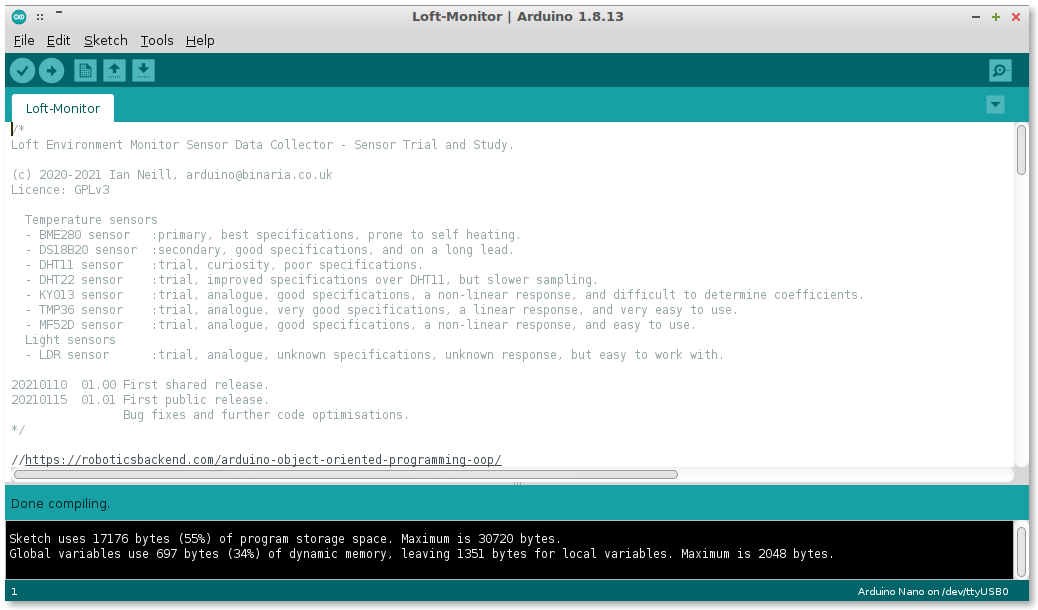
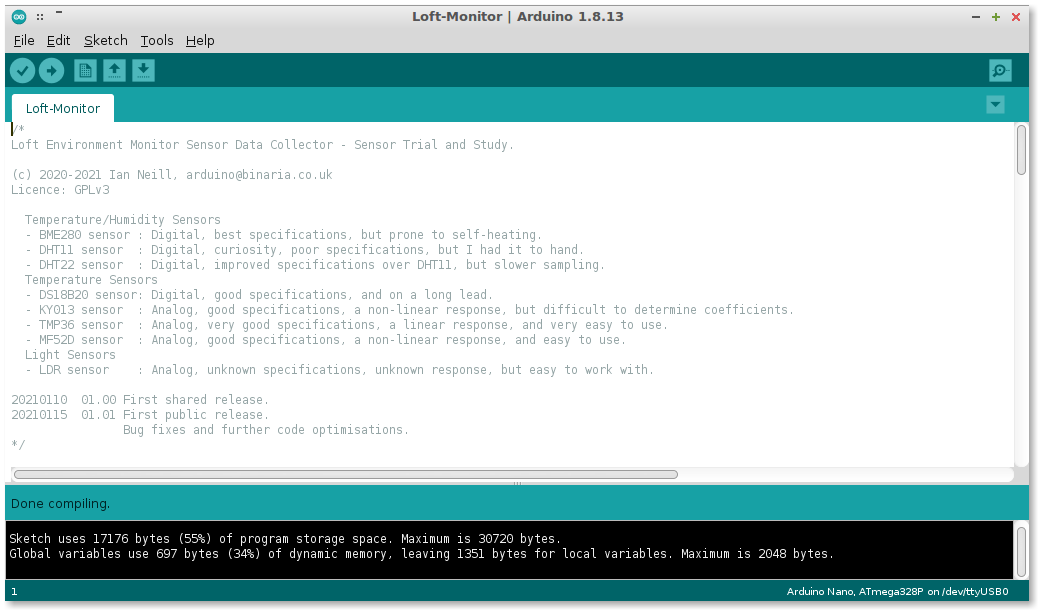
Sensor circuit diagrams added.

Changed region(s): [[0.0, 0.3426, 0.8324, 0.7164], [0.0, 0.7475, 0.4933, 0.7787], [0.7707, 0.9656, 0.894, 0.9967]]

diff --git a/README.md b/README.md
@@ -3,13 +3,13 @@
 
 So, I have a Server, several NAS's, 2x UPS's and a lot of network kit in my loft. I also have a ton of other real junk, but that is not so interesting. Anyway, in the Winter, my loft (or my mini datacentre, as my friends call it) really does not have a temperature problem, but in the Summer it can get really hot - hot enough for me to power down all my kit just as a precaution.
 
-Then, recently I discovered (many thanks Adrian) the Arduino (what an absolute marvel), and eventually I have gained enough knowledge and experience to be able to use an Arduino to monitor the environment in my loft. However, what environment sensor would be the best, what environment sensors are there, and how do they compare?
+Then, last year, I discovered (many thanks Adrian) the Arduino (what an absolute marvel), and eventually I gained enough knowledge and experience to be able to build, programm and use an Arduino to monitor the environment in my loft. However, what environment sensor is the best, what environment sensors are there, and how do they compare?
 
-This project is built on an Arduino Nano (cheap, breadboard friendly, virtually disposable) and has a total of 7x temperature sensors, 3x humdity sensors, and 1x light sensor (because I thought it might be useful too). It also has 5x LEDs that give a rough indication of what the temperature is.
+This project is built using an Arduino Nano (cheap, breadboard friendly, virtually disposable) and has a total of 7x temperature sensors, 3x humdity sensors, and 1x light sensor (because I thought it might be useful too). It also has 5x LEDs that give a rough indication of what the temperature is.
 
 **Temperature/Humidity Sensors**
-- BME280 sensor: Digital, best specifications, prone to self-heating.
-- DHT11 sensor: Digital, curiosity, poor specifications.
+- BME280 sensor: Digital, best specifications, but prone to self-heating.
+- DHT11 sensor: Digital, curiosity, poor specifications, but I had it to hand.
 - DHT22 sensor: Digital, improved specifications over DHT11, but slower sampling.
 
 **Temperature Sensors**
@@ -21,7 +21,7 @@ This project is built on an Arduino Nano (cheap, breadboard friendly, virtually 
 **Light Sensors**
 - LDR sensor: Analog, unknown specifications, unknown response, but easy to work with.
 
-The various data readings are output as CSV at a rate of 4x readings per minute, but this, and almost everything, is configurable. This data is captured via USB by a handy Serial Console program called [CoolTerm](http://freeware.the-meiers.org/), and it is [configured](ComPort4.stc) to timestamp each line as it is received and logged to disc. I have just left this running...
+The various data readings are output as text or CSV at a rate of 4x readings per minute, but this, and almost everything, is configurable. I am capturing the data as CSV via USB, with a handy Serial Console program called [CoolTerm](http://freeware.the-meiers.org/). It is [configured](ComPort4.stc) to timestamp each line as it is received and logged to disc. I have just left this running...
 
 In realtime, I can look at the log to get the information, or just look at the LEDs to get a rough idea of what the temperature in my loft/datacentre is.
 
@@ -36,26 +36,35 @@ In realtime, I can look at the log to get the information, or just look at the L
 
 In time, I will analyse the capured data (using LibreCalc), looking at the cycles and trends, and comparing and contrasting the readings from the many sensors. I expect that I will settle on just 1 or 2 sensors and then harden the build. Eventually I will use some of the spare digital outputs to control fans and things like that.
 
-An example "blob" of captured data can be studied [here](LoftMon20210111-1.csv).
+An example "blob" of captured CSV data can be studied [here](LoftMon20210111-1.csv).
 
 I should also be able to automate some basic alerting. For example, a simple python script running on the server could easily read the log, and send me an email if it spots whatever I want it to spot.
 
 ![](My-Loft-Environment-Monitor.png)
 
 ## Installation
+0. Construct the circuits for some/all of the sensors and the LEDs.
 1. Create an Arduino sketch folder called ``Loft-Monitor``.
 2. Copy ``Loft-Monitor.ino`` into the sketch folder just created.
 3. Fire up the Arduino IDE, and install the pre-requesite libraries (as necessary).
 4. Open the ``Loft-Monitor.ino`` sketch and enable/disable the sensors and features you want.
 5. Compile and download the code to your Arduino Nano.
 6. Capture the environment data with a serial comms app you like. I like and use [CoolTerm](http://freeware.the-meiers.org/).
+7. Leave it running, collecting data for as long as you need.
 
 ## Usage Example
 ![](Loft-Monitor-v101-CompileDownload.png)
 
+![](SerialMon-TestDataDisplay.png)
+
 ![](CoolTerm-DataCapture.png)
 
 ## Pre-Requesites
+You will need to connect up some sensors and LEDs.
+
+![](Loft-Monitor-CircuitsP1.png)
+![](Loft-Monitor-CircuitsP2.png)
+
 As is common for most Arduino sketches, several libraries must be included in the sketch to easily access the various sensors.
 
 ```
